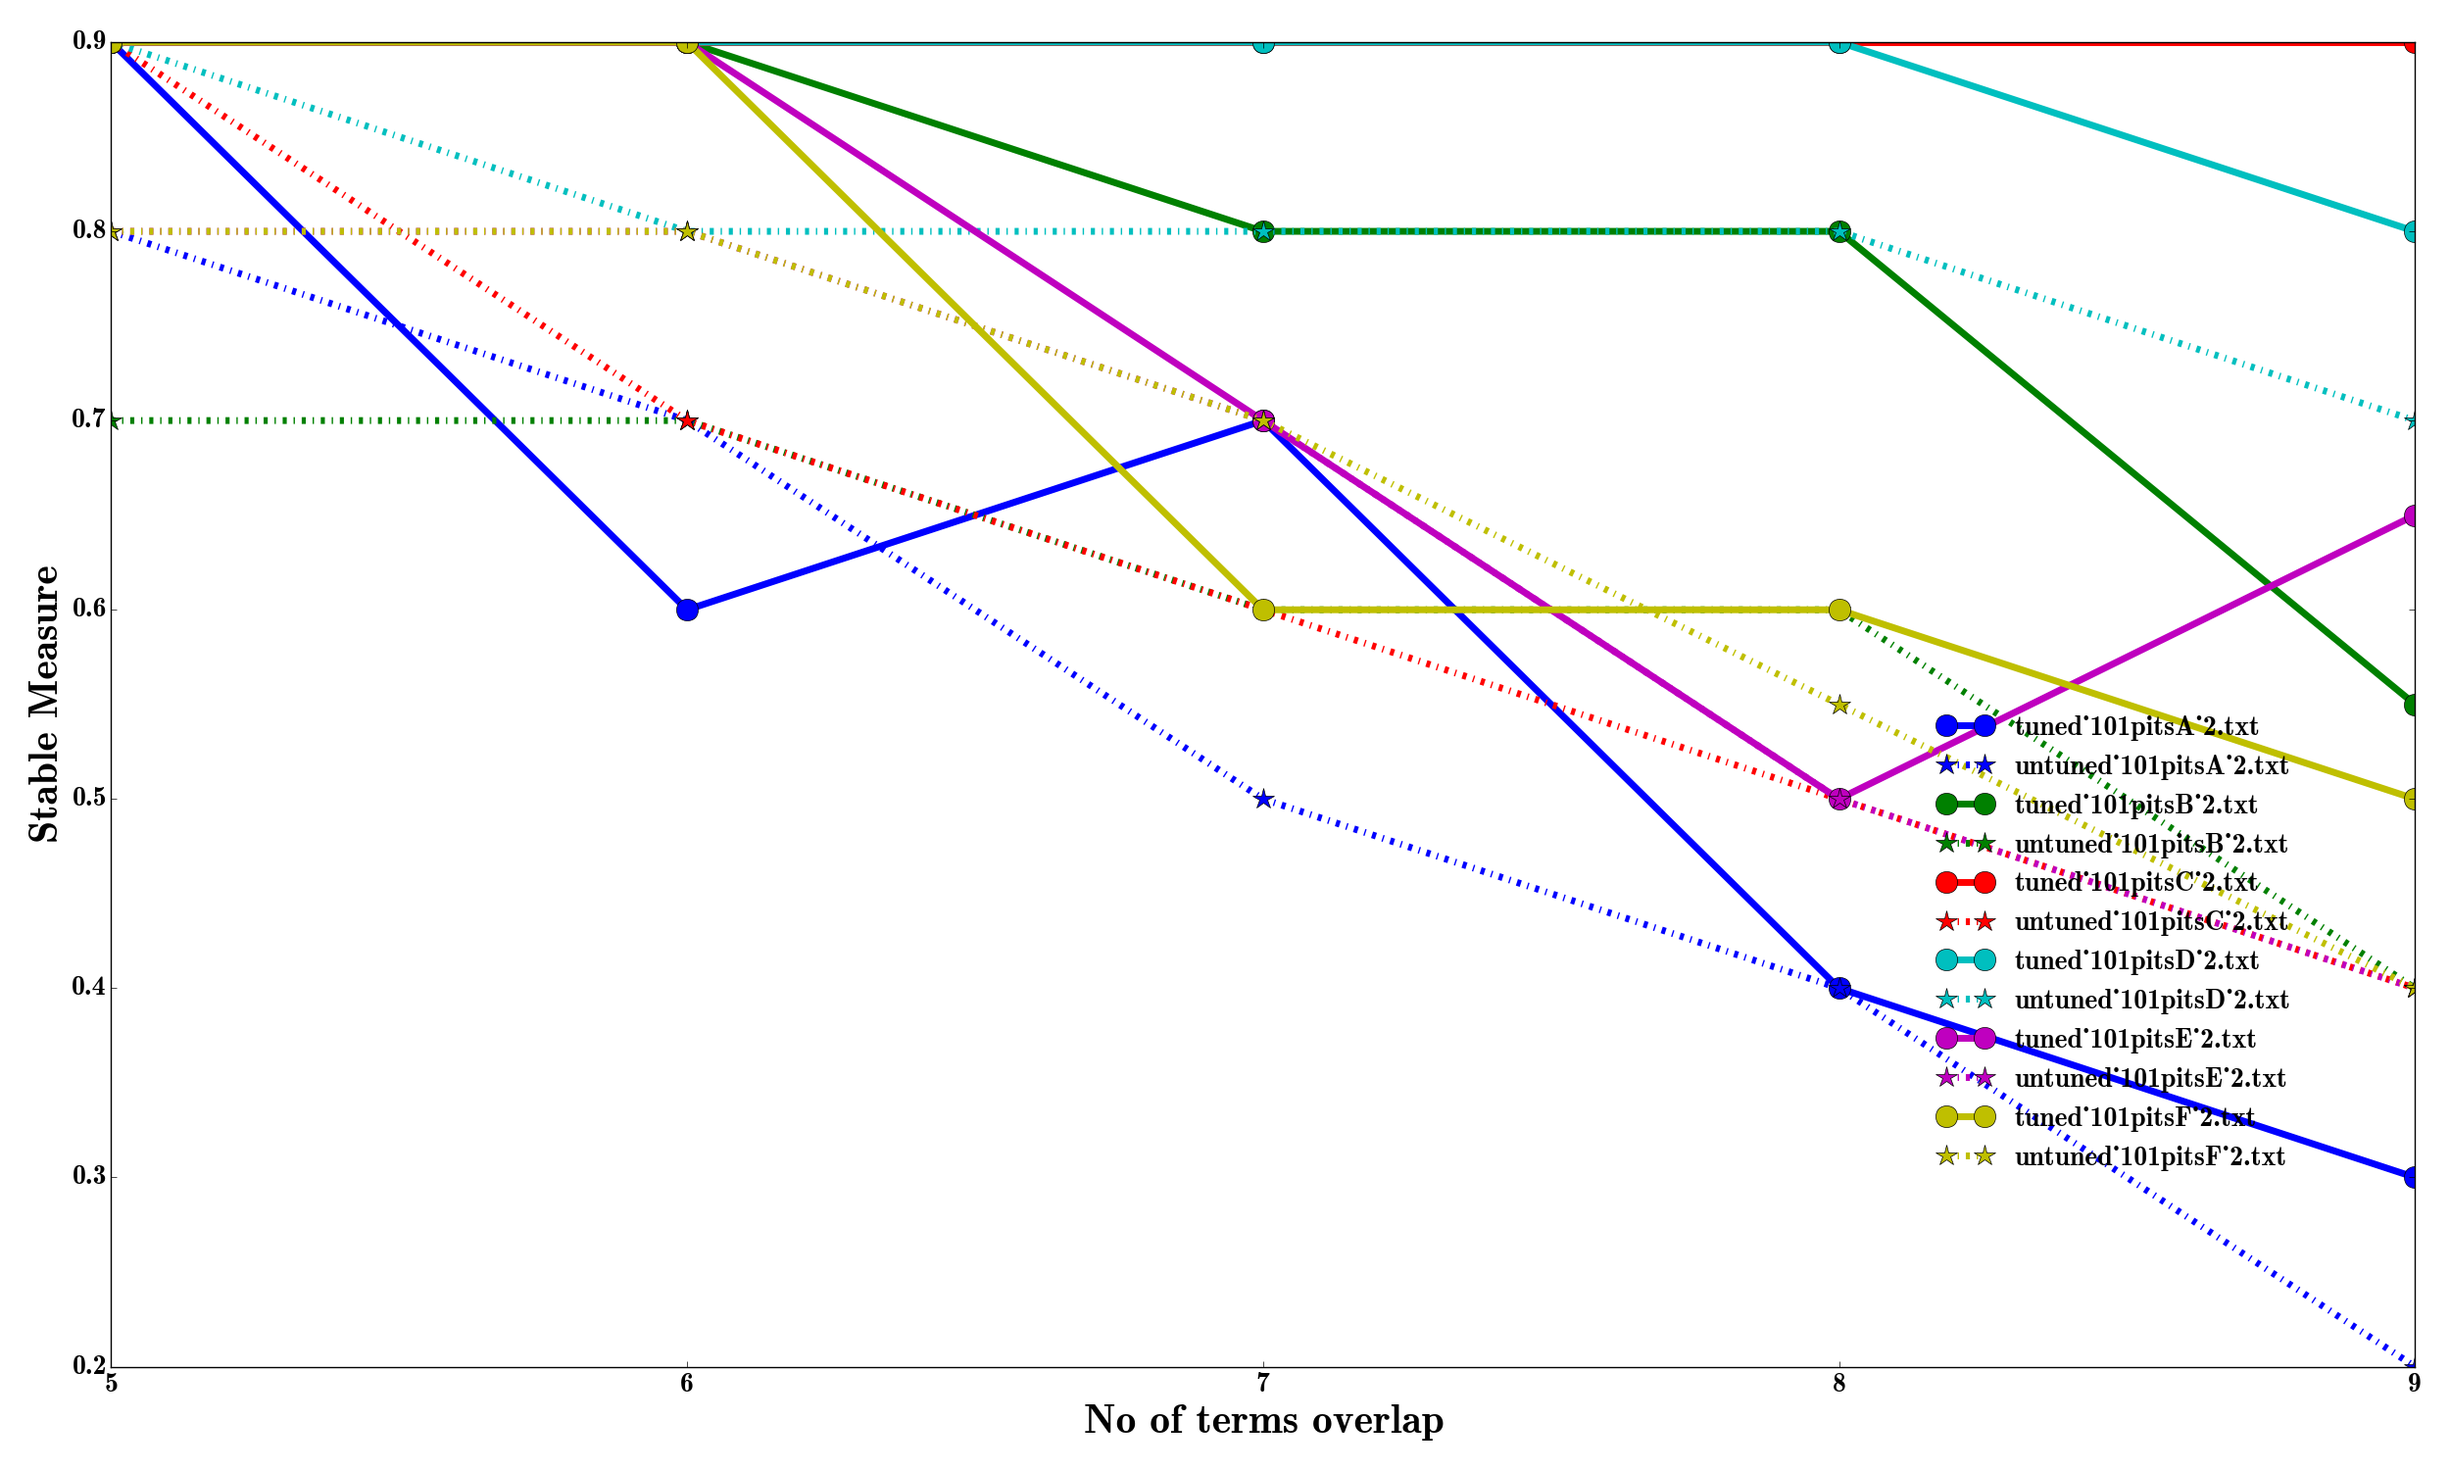
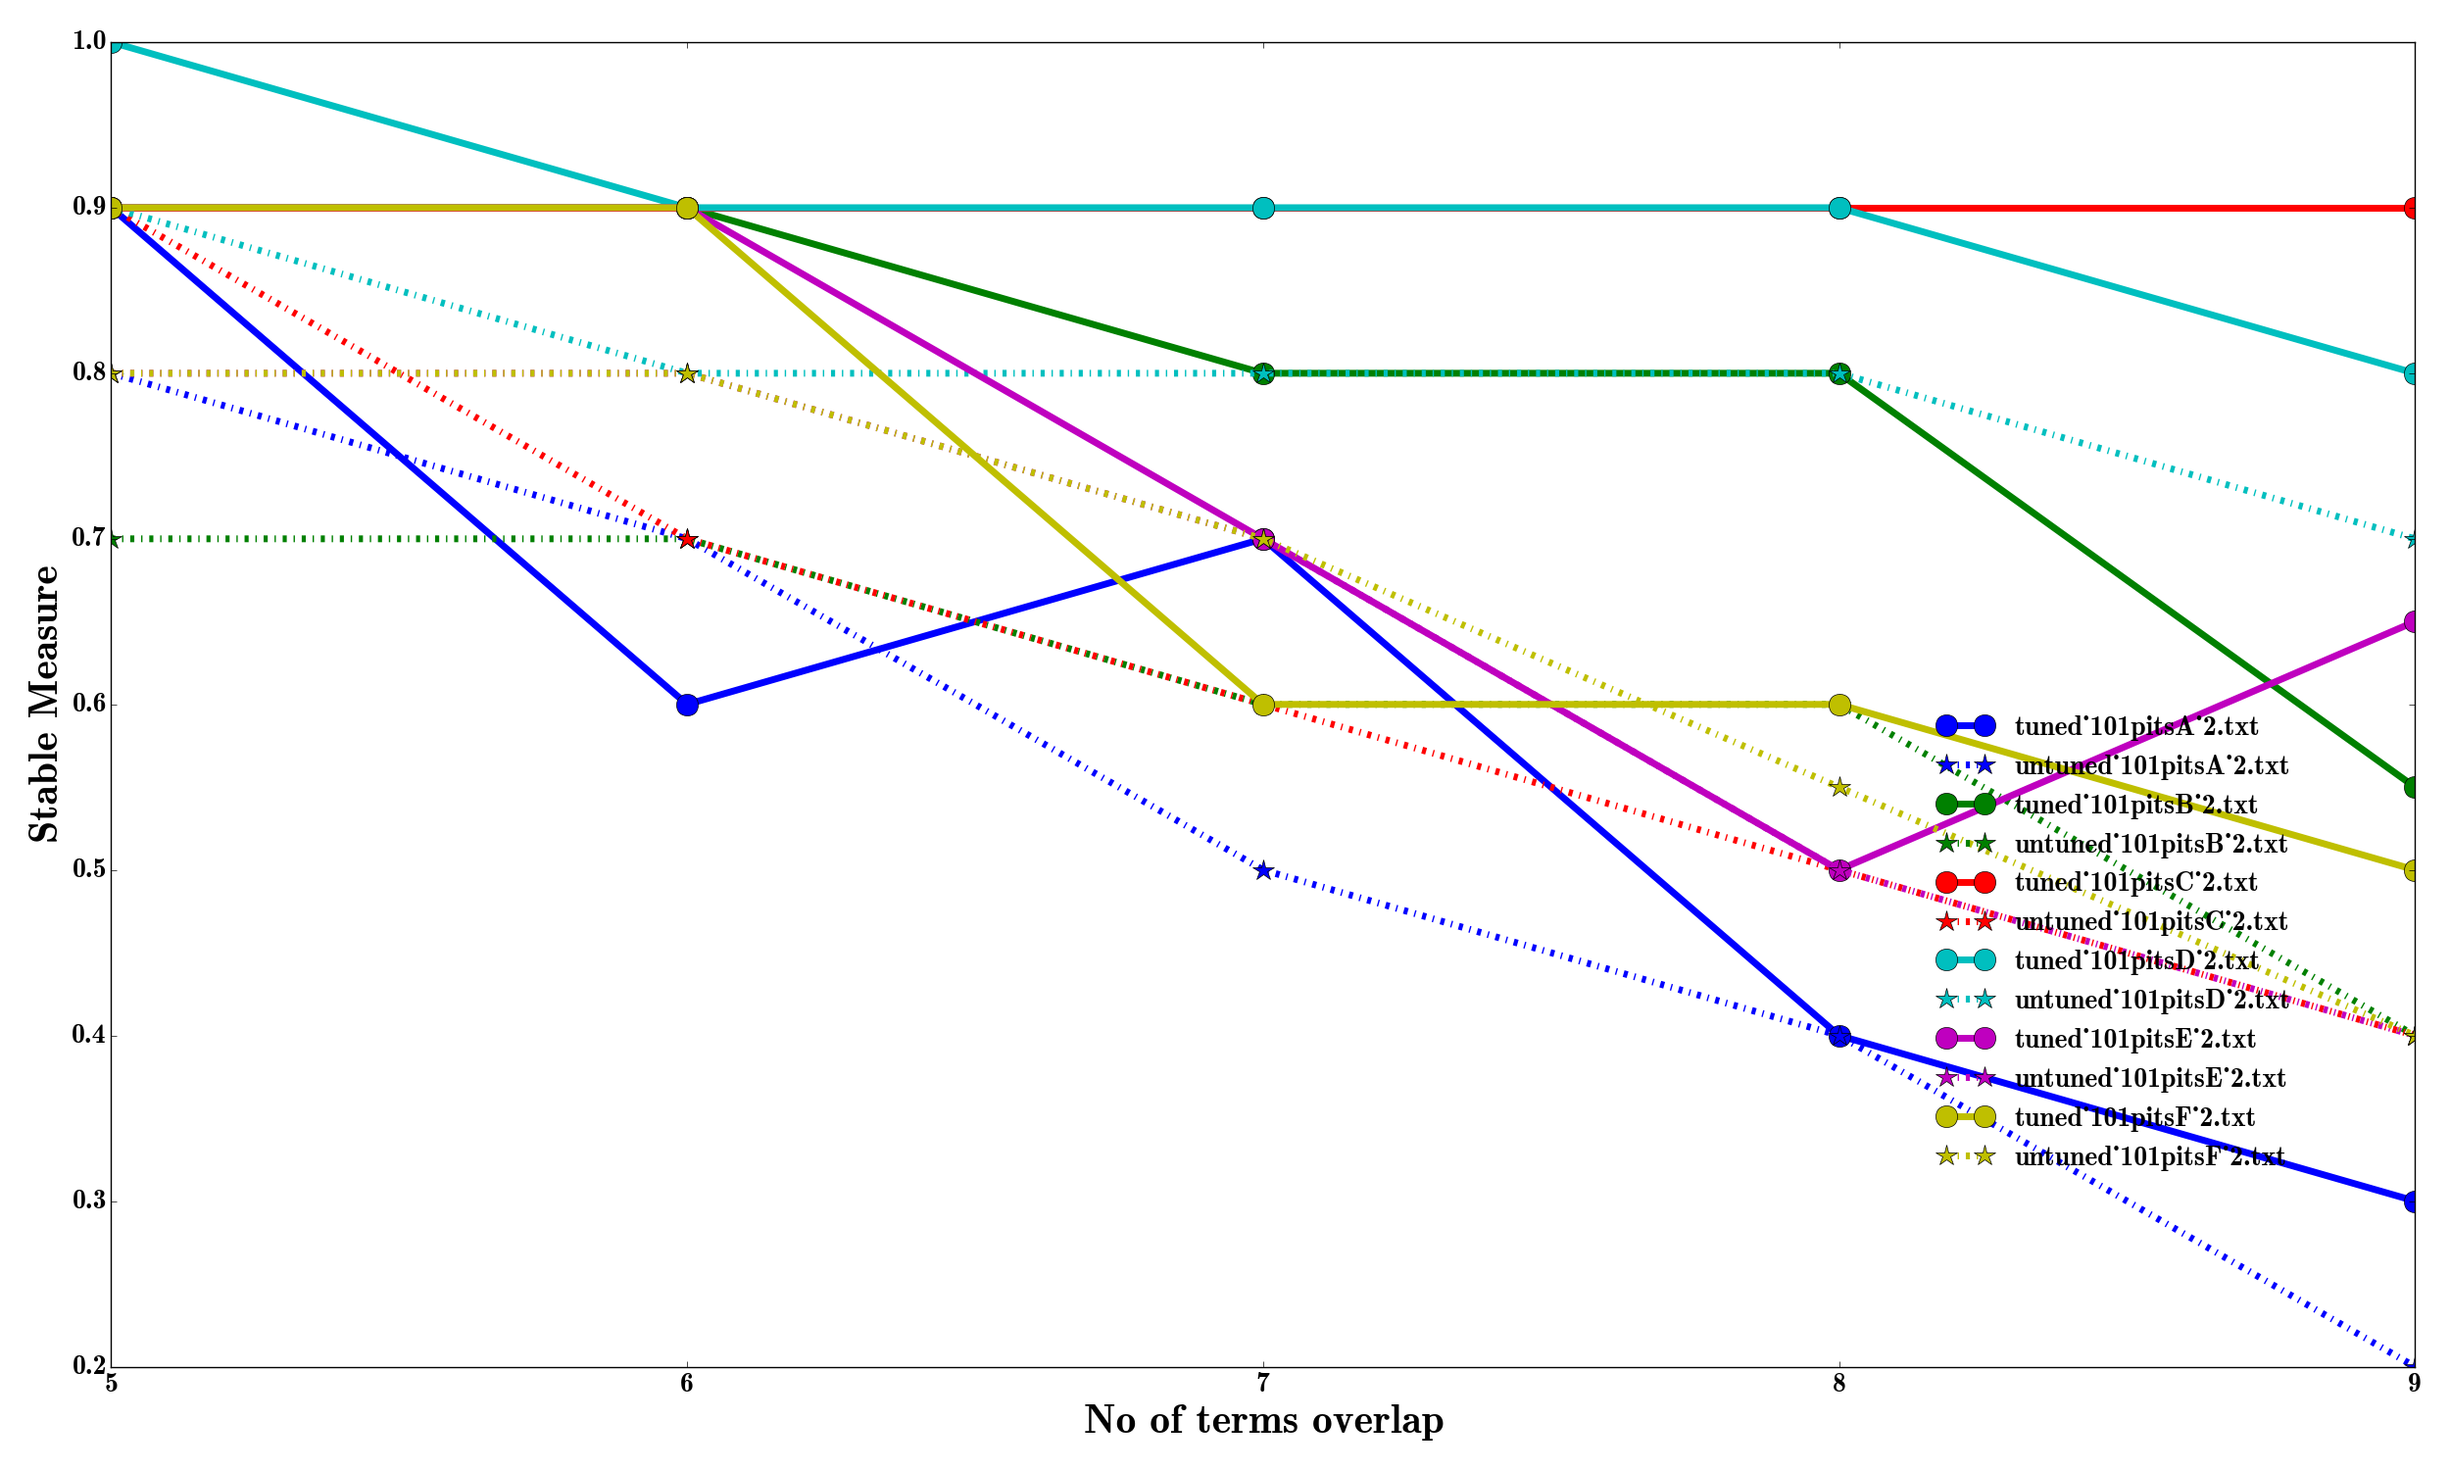
save

diff --git a/src/04-21/draw.py b/src/04-21/draw.py
@@ -8,7 +8,7 @@ if __name__ == '__main__':
     fileB = ['101pitsA_2.txt', '101pitsB_2.txt', '101pitsC_2.txt', '101pitsD_2.txt', '101pitsE_2.txt', '101pitsF_2.txt']
     l = []
     file_data={'101pitsA_2.txt':{"tuned":[0.9, 0.6, 0.7, 0.4, 0.3],"untuned":[0.8,0.7,0.5,0.4,0.2] }, '101pitsB_2.txt':{"tuned":[0.9,0.9,0.8,0.8,0.55],"untuned":[0.7,0.7,0.6,0.6,0.4] },'101pitsC_2.txt':{"tuned":[0.9,0.9,0.9,0.9,0.9],"untuned":[0.9,0.7,0.6,0.5,0.4]},
-               '101pitsD_2.txt':{"tuned":[0.9,0.9,0.9,0.9,0.8],"untuned":[0.9,0.8,0.8,0.8,0.7] },'101pitsE_2.txt':{"tuned":[0.9,0.9,0.7,0.5,0.65],"untuned":[0.8,0.8,0.7,0.5,0.4] },'101pitsF_2.txt':{"tuned":[0.9,0.9,0.6,0.6,0.5],"untuned":[0.8,0.8,0.7,0.55,0.4]}  }
+               '101pitsD_2.txt':{"tuned":[1.0,0.9,0.9,0.9,0.8],"untuned":[0.9,0.8,0.8,0.8,0.7] },'101pitsE_2.txt':{"tuned":[0.9,0.9,0.7,0.5,0.65],"untuned":[0.8,0.8,0.7,0.5,0.4] },'101pitsF_2.txt':{"tuned":[0.9,0.9,0.6,0.6,0.5],"untuned":[0.8,0.8,0.7,0.55,0.4]}  }
     labels = [5, 6, 7, 8, 9]
     font = {'family' : 'normal',
             'weight' : 'bold',
